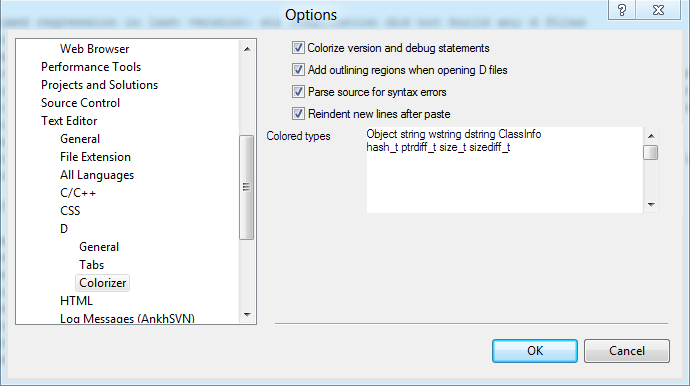
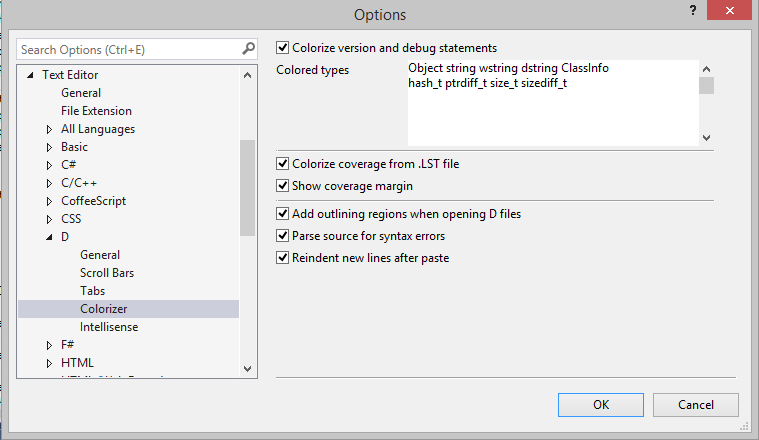
Visual D 0.3.39

diff --git a/visuald/Coverage.html b/visuald/Coverage.html
@@ -10,7 +10,8 @@
 
 <head>
 <meta http-equiv="content-type" content="text/html; charset=utf-8" >
-<title>Search Window - D Programming Language - Digital Mars</title>
+<title>Code Coverage
+ - D Programming Language - Digital Mars</title>
 <link rel="stylesheet" type="text/css" href="http://www.dlang.org/css/codemirror.css" />
 <link rel="stylesheet" type="text/css" href="http://www.dlang.org/css/style.css">
 
@@ -120,7 +121,7 @@
 <div id="tools">
 	<!--span id="lastupdate">Last update </span-->
 	<span class="tip">
-		<a href="https://github.com/D-Programming-Language/visuald/edit/master/Search.dd" class="button">Improve this page</a>
+		<a href="https://github.com/D-Programming-Language/visuald/edit/master/Coverage.dd" class="button">Improve this page</a>
 		<span>
 			Quickly fork, edit online, and submit a pull request for this page.
 			Requires a signed-in GitHub account. This works well for small changes.
@@ -136,33 +137,59 @@
 	</span>
 </div>
 
-    <h1>Search Window</h1>
+    <h1>Code Coverage
+</h1>
     <div id=quickindex class=quickindex></div>
-    <!-- Generated by Ddoc from Search.dd -->
+    <!-- Generated by Ddoc from Coverage.dd -->
 
 
-<p>The search window helps you finding files in larger projects or symbol definitions. 
-The window can be opened through the Visual D menu. It is more convenient to assign keyboard 
-shortcuts to the commands "VisualD.!SearchFile" and  "VisualD.!SearchSymbol".</p>
+<p>DMD comes with an option to instrument an executable for coverage analysis
+during its execution. You can enable it on the project configuration page "Code Generation".</p>
 
-<div align="center"><img src="images/visuald_menu.png" /></div>
-
-
-<p>The Visual D Search window operates in two modes, switchable by the first two icons of its toolbar:</p>
-
-<h2>Search File</h2>
-
-<p>In this mode all files in the Visual Studio solution are searched for the words given in the edit field.</p>
-
-<div align="center"><img src="images/searchfile.png" /></div>
+<div align="center"><img src="images/prop_codegen.png" /></div>
 
 
-<h2>Search Symbol </h2>
+<p>With code coverage enabled the executable will record
+the source code lines that have been executed and will mark the lines that have 
+code generated but are never executed. This information is written into files named as the 
+source files but with extension ".lst".</p>
 
-<p>This mode searches the symbols found in generated JSON files for the words given in the edit field.</p>
+<table><tr><td valign="top" width="70%">
+<p>If you enable option "Colorize Coverage" in
+the Visual D colorizer settings (reachable through the "Open Language Options..." entry 
+in the Visual D menu), these lines will be highlighted in the editor. The highlighting will not show
+up unless the lst-file is newer than the source file as it will probably be out of sync
+otherwise.
+</p>
 
-<div align="center"><img src="images/searchsymbol.png" /></div>
+</td><td width="30%">
+<div align="center"><img src="images/coverage_forever.png" /></div>
 
+</td></tr></table>
+
+<p>If you start editing the source file Visual D will try to keep coverage information in sync. 
+If you want to get rid of the coverage coloring, just resave the source file. 
+Visual D will assume the coverage is invalid then and stop displaying it.
+</p>
+
+<table><tr><td valign="top" width="70%">
+<p>Enabling "Show coverage margin" on the same options page will add a column
+to the editor window that displays the exact coverage counters for each line.</p>
+
+<p>The very first line contains the percentage of covered source lines with generated
+code in the module.</p>
+
+<p>[Visual Studio 2008 displays the coverage margin as an overlay on the right side 
+of the editor window.]</p>
+
+</td><td width="30%">
+<div align="center"><img src="images/coveragemargin_forever.png" /></div>
+
+</td></tr></table>
+
+This option can be combined with the "Compile and Run" command to easily test
+the code coverage of unittests within a module. See <a href="news36.html">Unit testing and code coverage</a>
+for an example.
 
 
     

diff --git a/visuald/StartPage.html b/visuald/StartPage.html
@@ -83,6 +83,7 @@
     <li><a href="CppConversion.html" title="C++ to D Converter">C++ to D</a></li>
     <li><a href="Debugging.html" title="Debugger support">Debugging</a></li>
     <li><a href="Profiling.html" title="Profiler window">Profiling</a></li>
+    <li><a href="Coverage.html" title="Code Coverage">Code Coverage</a></li>
     <li><a href="BrowseInfo.html" title="Browse information">Browse Info</a></li>
    </ul>
 
@@ -150,7 +151,7 @@ See the <a href="Installation.html">Installation</a> instructions, especially if
 <p>Visual D aims at providing seamless integration of the D programming language into Visual Studio.</p>
 
 <div align="right">
-<a href="https://github.com/D-Programming-Language/visuald/releases/download/v0.3.38-1/VisualD-v0.3.38-1.exe"><img src="images/download.png" /></a>
+<a href="https://github.com/D-Programming-Language/visuald/releases/download/v0.3.39/VisualD-v0.3.39.exe"><img src="images/download.png" /></a>
 <p><a href="https://github.com/D-Programming-Language/visuald/releases">Beta releases</a></p>
 </div>
 </td></table>
@@ -174,6 +175,7 @@ See the <a href="Installation.html">Installation</a> instructions, especially if
  <li>Integration of <a href="http://dsource.org/projects/cv2pdb">cv2pdb</a> and 
       <a href="http://dsource.org/projects/mago_debugger">Mago</a> for nice debugging experience</li>
  <li>Profiler browse window</li>
+ <li>Code Coverage support</li>
  <li>Support for Error List, Code Definition window, Object Browser and Class View</li>
  <li>C++ to D Conversion Wizard</li>
  <li>Code completion and tooltips from semantic analysis of source code</li>
@@ -190,8 +192,18 @@ See the <a href="Installation.html">Installation</a> instructions, especially if
 
 <h2>News</h2>
 
-<a href="VersionHistory.html">Full version history and complete details...</a>
-<br />
+<p><a href="VersionHistory.html">Full version history and complete details...</a>
+</p>
+
+2014-10-10 Version 0.3.39
+<ul>
+ <li>mago 1.0: now can debug 64-bit applications</li>
+ <li>updated dparser to latest version</li>
+ <li>new "Compile &amp; Debug" command</li>
+ <li>updated to support dmd 2.066 command line options</li>
+ <li>support tab/indentation settings set by .editorconfig plugin</li>
+</ul>
+
 
 2014-04-15 Version 0.3.38-1
 <ul>
@@ -216,20 +228,6 @@ See the <a href="Installation.html">Installation</a> instructions, especially if
 </li>
  <li>updated to cv2pdb 0.31 with support for VS2013 and DWARF support for gcc 4.8</li>
  <li>updated to mago 0.9 </li>
-</ul>
-
-
-2013-11-02 Version 0.3.37
-<ul>
-  <li>Installer now supports VS 2013, updated to cv2pdb 0.27, mago 0.8, fixes x64 deubgger in VS 2012 Shell</li>
-  <li>improvements to "Compile and Run"</li>
-  <li>improvements to syntax/coverage highlighting</li>
-  <li>DParser engine now used by default, updated to recent version</li>
-  <li>single file options now available per project configuration</li>
-  <li>added global option to display the reason for building a target</li>
-  <li>added different options for executable and library search paths to be used for Win32/x64</li>
-  <li>link dependencies can now also be monitored for the 32-bit MS linker</li>
-  <li>added commands "Collapse unittests" and "Collapse disabled" to the outlining menu</li>
 </ul>
 
 

diff --git a/visuald/VersionHistory.html b/visuald/VersionHistory.html
@@ -84,6 +84,7 @@
     <li><a href="CppConversion.html" title="C++ to D Converter">C++ to D</a></li>
     <li><a href="Debugging.html" title="Debugger support">Debugging</a></li>
     <li><a href="Profiling.html" title="Profiler window">Profiling</a></li>
+    <li><a href="Coverage.html" title="Code Coverage">Code Coverage</a></li>
     <li><a href="BrowseInfo.html" title="Browse information">Browse Info</a></li>
    </ul>
 
@@ -140,6 +141,58 @@
 </h1>
     <div id=quickindex class=quickindex></div>
     <!-- Generated by Ddoc from VersionHistory.dd -->
+
+
+2014-10-10 Version 0.3.39
+ <ul>
+  <li>build system
+   <ul>
+    <li>optlink now always called with /DELEXE to avoid keeping broken binary</li>
+    <li>bugzilla 11035: added workaround for bad import library being passed by C/C++ projects</li>
+    <li>tweaked "Compile &amp; Run" to distinguish between compile and execution errors</li>
+    <li>added "Compile &amp; Debug" command</li>
+    <li>add option "up to date with same time" to custom build</li>
+    <li>target no longer rebuilt if only custom builds necessary</li>
+    <li>add options for -vgc, -gx and -allinst</li>
+    <li>removed checkbox for dmd option -quiet</li>
+    <li>slightly improved configuration pages by grouping related options</li>
+    <li>bugzilla 12584: fixed global options disappearing when resizing window</li>
+   </ul>
+</li>
+  <li>project management
+   <ul>
+    <li>bugzilla 13360: implemented automation object methods "DTE" and "Collection"</li>
+   </ul>
+</li>
+  <li>language service
+   <ul>
+    <li>added editor margin to display coverage counters and percentage</li>
+    <li>support tab/indentation settings set by .editorconfig plugin</li>
+    <li>new dparser version: a28aaf67777733b2b70d56fc8cab8b5f296b9745</li>
+    <li>syntax highlighting: @nogc added as a keyword</li>
+   </ul>
+</li>
+  <li>debugger
+   <ul>
+    <li>new mago version 1.0
+     <ul>
+      <li>now supports debugging x64 executables</li>
+      <li>displays static members of classes and structs</li>
+      <li>fixed not closing executable file causing linker to fail when rebuilding</li>
+      <li>fixed breakpoints not set in all instances of a template</li>
+      <li>breakpoints no longer span multiple lines</li>
+      <li>disassembly now shows a maximum of 8 lines of source code before instruction</li>
+     </ul>
+</li>
+    <li>new cv2pdb version 0.32
+     <ul>
+      <li>DWARF: fixed relocations in .debug_line section</li>
+      <li>tweaked visualizer macros to display void[], limit array preview to 64 entries</li>
+     </ul>
+</li>
+   </ul>
+</li>
+ </ul>
 
 
 2014-04-12 Version 0.3.38

diff --git a/visuald/GlobalOptions.html b/visuald/GlobalOptions.html
@@ -84,6 +84,7 @@
     <li><a href="CppConversion.html" title="C++ to D Converter">C++ to D</a></li>
     <li><a href="Debugging.html" title="Debugger support">Debugging</a></li>
     <li><a href="Profiling.html" title="Profiler window">Profiling</a></li>
+    <li><a href="Coverage.html" title="Code Coverage">Code Coverage</a></li>
     <li><a href="BrowseInfo.html" title="Browse information">Browse Info</a></li>
    </ul>
 
@@ -152,14 +153,17 @@ want to check the global settings that can be reached from the Menu Tools -&gt; 
 <br />
 <p>The <b>Visual D Settings</b> will allow you to enable and disable</p>
 <ul>
- <li>showing the build time for each project in the output window</li>
  <li>sorting the projects alphabetically</li>
+ <li>showing the reason for rebuilding a target in the output window</li>
+ <li>showing the build time for each project in the output window</li>
  <li>stop building the solution as soon as a project fails to compile</li>
  <li>showing demangled names in the error list and linker output</li>
  <li>monitor the linker for additional library dependencies</li>
  <li>JSON paths: Directories to search for *.json files to find symbol definitions.</li>
  <li>Resource includes: include paths to pass to the resource compiler when building resource files.</li>
  <li>additional command line options for the "Compile and Run" command</li>
+ <li>additional command line options for the "Compile and Debug" command</li>
+ <li>the debug engine to be used by the "Compile and Debug" command</li>
 </ul>
 
 
@@ -173,11 +177,11 @@ want to check the global settings that can be reached from the Menu Tools -&gt; 
  <li>Install path: The path to the compiler installation folder you entered within the installer.
   <ul>
    <li>DMD: this is not the path to the executable dmd.exe, but the folder that contains the full installation so 
-        that the compiler is found as <DMD install path>\windows\bin\dmd.exe </li>
+        that the compiler is found as &lt;DMD install path&gt;\windows\bin\dmd.exe </li>
    <li>GDC: this is not the path to the executable gdc.exe, but the folder that contains the full installation so 
-        that the compiler is found as <DMD install path>\bin\gdc.exe </li>
+        that the compiler is found as &lt;DMD install path&gt;\bin\gdc.exe </li>
    <li>LDC: this is not the path to the executable ldc.exe, but the folder that contains the full installation so 
-    that the compiler is found as <DMD install path>\bin\ldc2.exe </li>
+    that the compiler is found as &lt;DMD install path&gt;\bin\ldc2.exe </li>
   </ul>
 
  </li>

diff --git a/visuald/KnownIssues.html b/visuald/KnownIssues.html
@@ -83,6 +83,7 @@
     <li><a href="CppConversion.html" title="C++ to D Converter">C++ to D</a></li>
     <li><a href="Debugging.html" title="Debugger support">Debugging</a></li>
     <li><a href="Profiling.html" title="Profiler window">Profiling</a></li>
+    <li><a href="Coverage.html" title="Code Coverage">Code Coverage</a></li>
     <li><a href="BrowseInfo.html" title="Browse information">Browse Info</a></li>
    </ul>
 
@@ -198,6 +199,18 @@ This requires considerable data transfer between processes.</p>
 <p>As a result, Windows Defender can harm performance of Visual D. To avoid this,
 add the Visual Studio process devenv.exe to the list of Excluded Processes in the 
 settings of Windows Defender.</p>
+
+<h2>Import libraries from C/C++ projects </h2>
+
+<p>A Visual C/C++ DLL project reports two outputs to dependent projects: the DLL and the import library.</p>
+
+<p>Unfortunately, the import library reported still contains unexpanded macros and the current working directory prepended 
+instead of the project directory. The actual replacements are not accessible to Visual D, so it assumes the
+the import library to be placed along-side the DLL.</p>
+
+<p>If the C++ DLL project is converted to a static library project, the import library setting is kept, though 
+unaccessible from the configuration page. The import library is falsely reported as an output. To mitigate
+this problem, Visual D ignores the import library if the main output is also a library.</p>
 
 
     

diff --git a/visuald/BrowseInfo.html b/visuald/BrowseInfo.html
@@ -83,6 +83,7 @@
     <li><a href="CppConversion.html" title="C++ to D Converter">C++ to D</a></li>
     <li><a href="Debugging.html" title="Debugger support">Debugging</a></li>
     <li><a href="Profiling.html" title="Profiler window">Profiling</a></li>
+    <li><a href="Coverage.html" title="Code Coverage">Code Coverage</a></li>
     <li><a href="BrowseInfo.html" title="Browse information">Browse Info</a></li>
    </ul>
 

diff --git a/visuald/BuildFromSource.html b/visuald/BuildFromSource.html
@@ -83,6 +83,7 @@
     <li><a href="CppConversion.html" title="C++ to D Converter">C++ to D</a></li>
     <li><a href="Debugging.html" title="Debugger support">Debugging</a></li>
     <li><a href="Profiling.html" title="Profiler window">Profiling</a></li>
+    <li><a href="Coverage.html" title="Code Coverage">Code Coverage</a></li>
     <li><a href="BrowseInfo.html" title="Browse information">Browse Info</a></li>
    </ul>
 

diff --git a/visuald/CppConversion.html b/visuald/CppConversion.html
@@ -83,6 +83,7 @@
     <li><a href="CppConversion.html" title="C++ to D Converter">C++ to D</a></li>
     <li><a href="Debugging.html" title="Debugger support">Debugging</a></li>
     <li><a href="Profiling.html" title="Profiler window">Profiling</a></li>
+    <li><a href="Coverage.html" title="Code Coverage">Code Coverage</a></li>
     <li><a href="BrowseInfo.html" title="Browse information">Browse Info</a></li>
    </ul>
 

diff --git a/visuald/Debugging.html b/visuald/Debugging.html
@@ -83,6 +83,7 @@
     <li><a href="CppConversion.html" title="C++ to D Converter">C++ to D</a></li>
     <li><a href="Debugging.html" title="Debugger support">Debugging</a></li>
     <li><a href="Profiling.html" title="Profiler window">Profiling</a></li>
+    <li><a href="Coverage.html" title="Code Coverage">Code Coverage</a></li>
     <li><a href="BrowseInfo.html" title="Browse information">Browse Info</a></li>
    </ul>
 

diff --git a/visuald/Editor.html b/visuald/Editor.html
@@ -84,6 +84,7 @@
     <li><a href="CppConversion.html" title="C++ to D Converter">C++ to D</a></li>
     <li><a href="Debugging.html" title="Debugger support">Debugging</a></li>
     <li><a href="Profiling.html" title="Profiler window">Profiling</a></li>
+    <li><a href="Coverage.html" title="Code Coverage">Code Coverage</a></li>
     <li><a href="BrowseInfo.html" title="Browse information">Browse Info</a></li>
    </ul>
 

diff --git a/visuald/Features.html b/visuald/Features.html
@@ -84,6 +84,7 @@
     <li><a href="CppConversion.html" title="C++ to D Converter">C++ to D</a></li>
     <li><a href="Debugging.html" title="Debugger support">Debugging</a></li>
     <li><a href="Profiling.html" title="Profiler window">Profiling</a></li>
+    <li><a href="Coverage.html" title="Code Coverage">Code Coverage</a></li>
     <li><a href="BrowseInfo.html" title="Browse information">Browse Info</a></li>
    </ul>
 

diff --git a/visuald/Installation.html b/visuald/Installation.html
@@ -83,6 +83,7 @@
     <li><a href="CppConversion.html" title="C++ to D Converter">C++ to D</a></li>
     <li><a href="Debugging.html" title="Debugger support">Debugging</a></li>
     <li><a href="Profiling.html" title="Profiler window">Profiling</a></li>
+    <li><a href="Coverage.html" title="Code Coverage">Code Coverage</a></li>
     <li><a href="BrowseInfo.html" title="Browse information">Browse Info</a></li>
    </ul>
 
